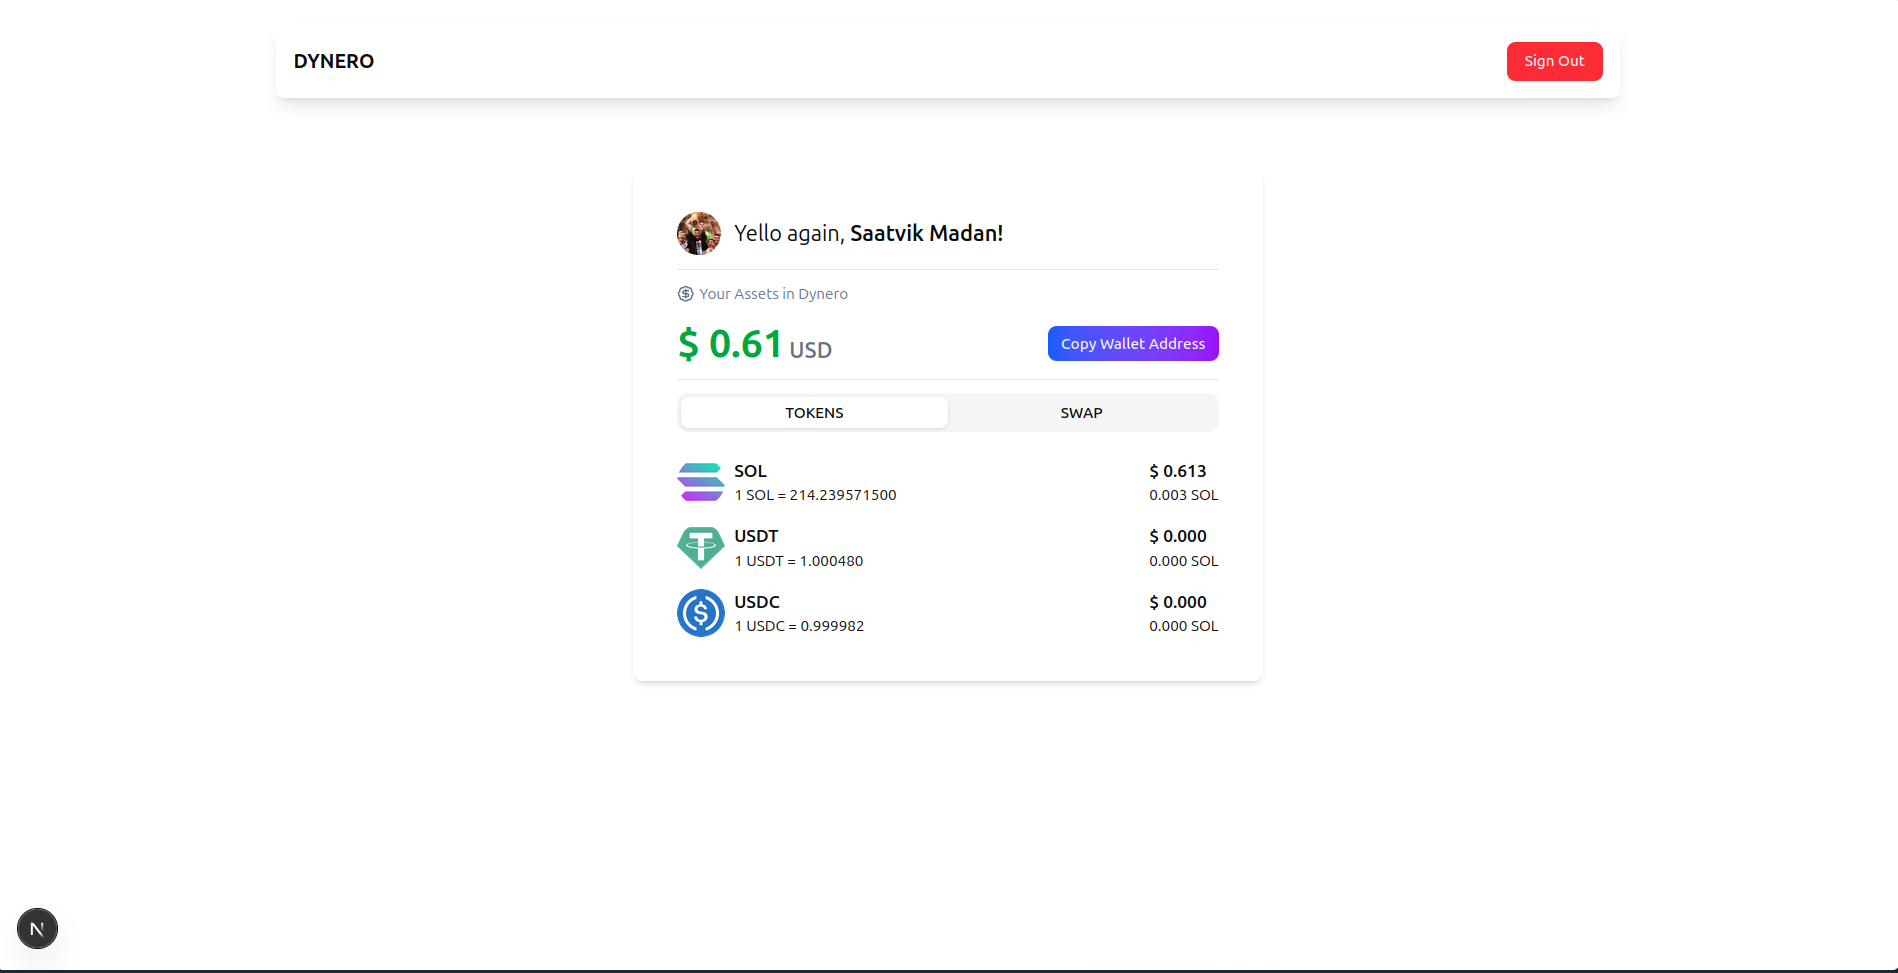
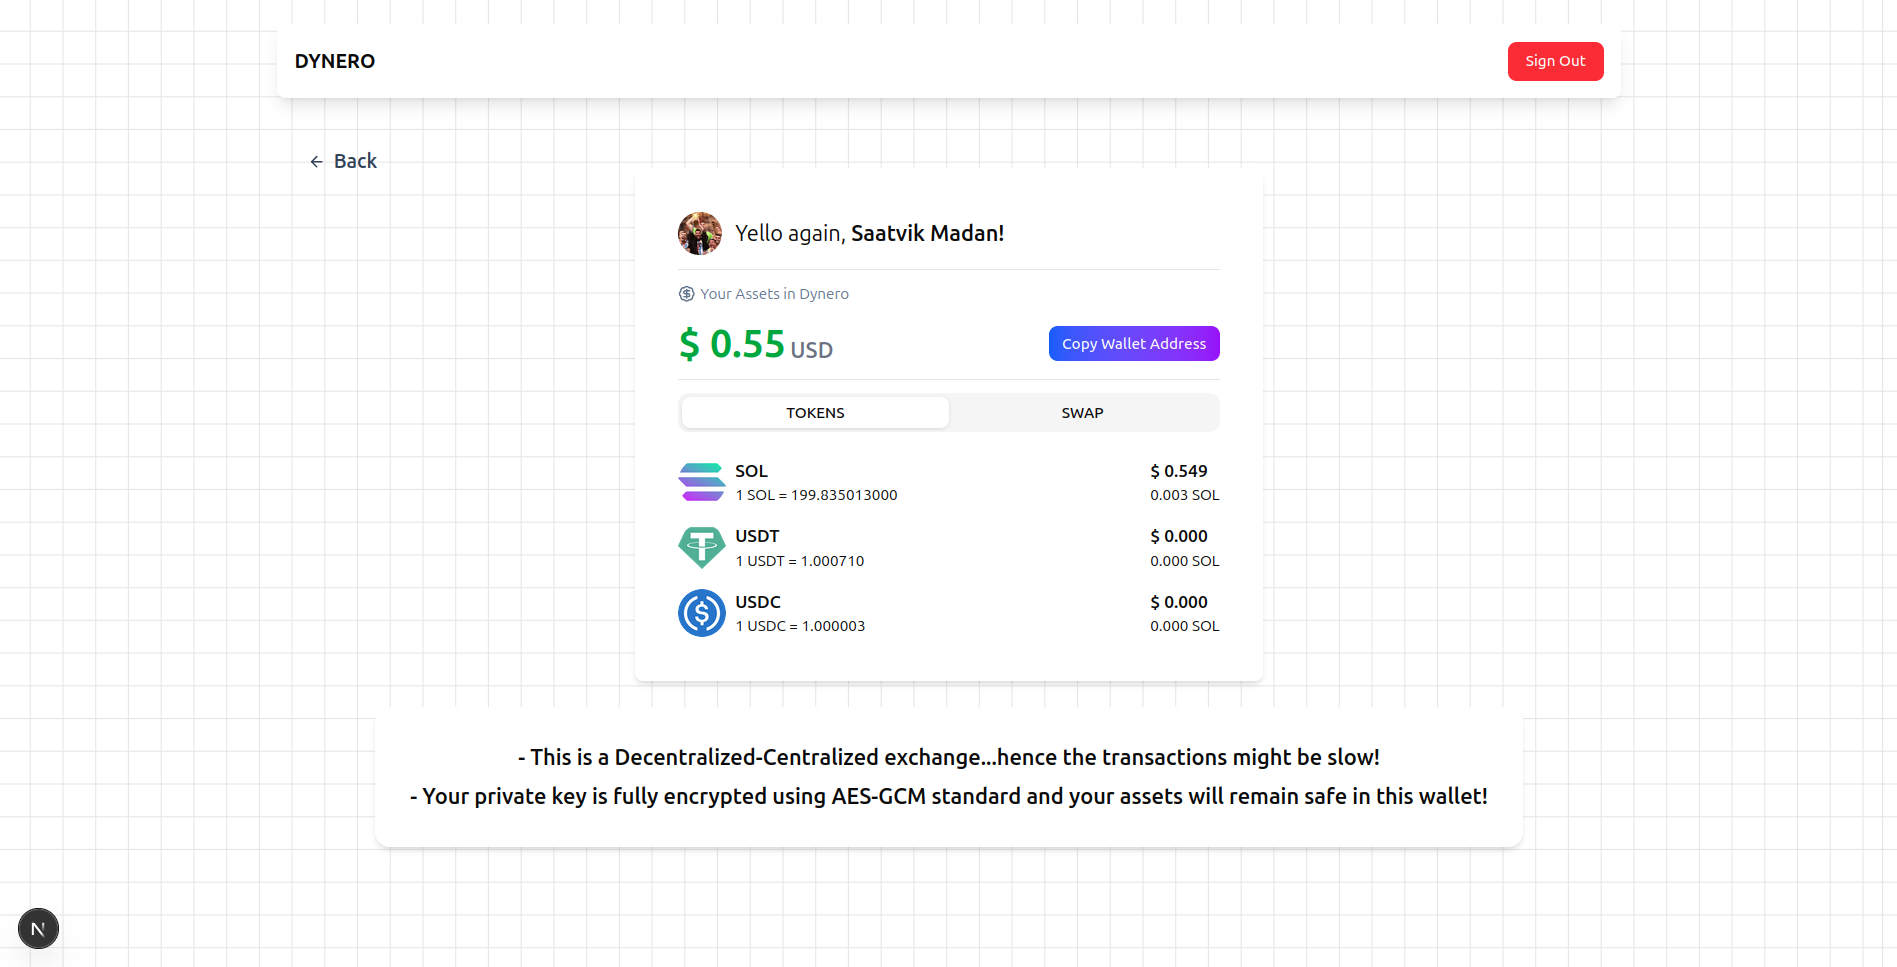
updated ui

diff --git a/components/Wallet.tsx b/components/Wallet.tsx
@@ -68,7 +68,7 @@ export function Profile({ publicKey }: { publicKey: string }) {
         onClick={() => {
           route.push('/');
         }}
-        className='flex itens-center justify-center gap-2 absolute md:left-10 top-4 left-4 bg-transparent text-slate-700 text-lg font-semibold'
+        className='flex itens-center justify-center gap-2 absolute md:left-10 top-4 left-4 bg-transparent text-slate-700 text-lg font-semibold cursor-pointer hover:bg-transparent hover:text-slate-700/60'
       >
         <ArrowLeft className='size-4' />
         Back
